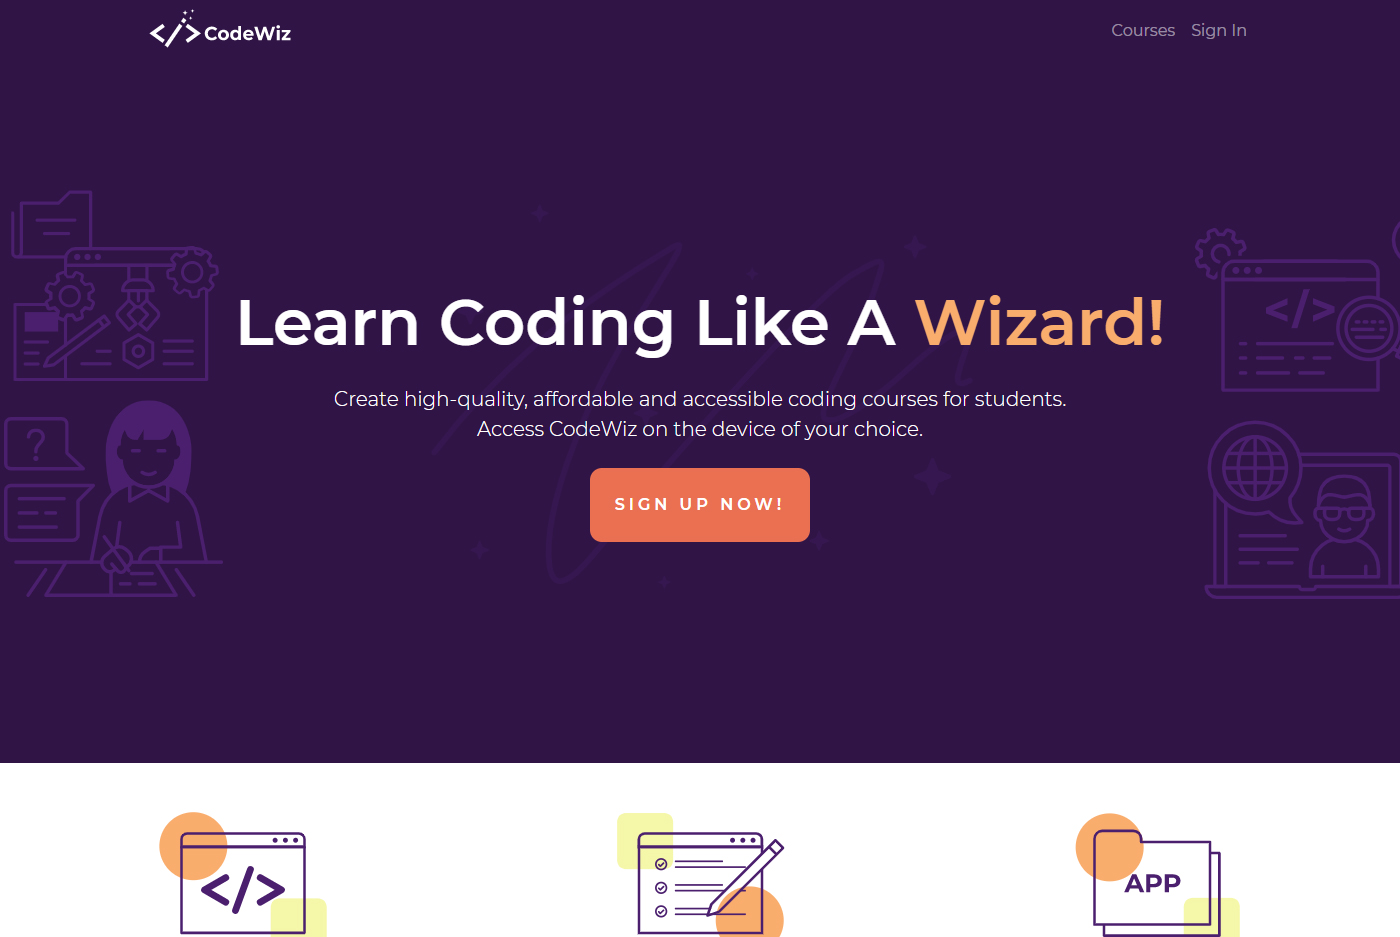
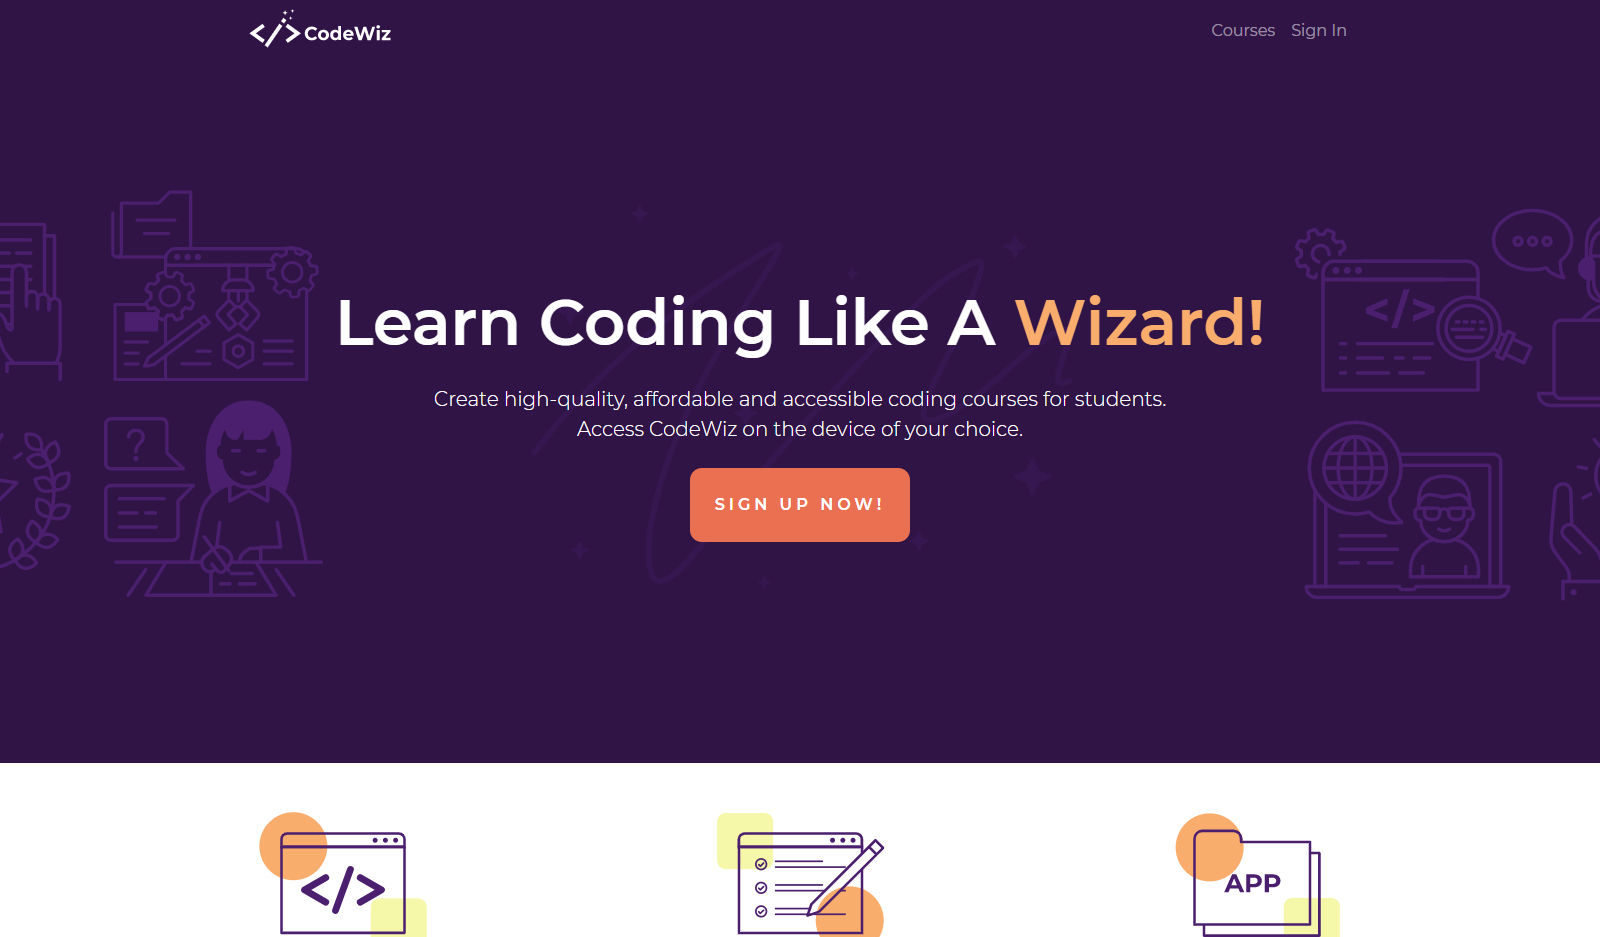
done with sofware section

diff --git a/styles/globals.css b/styles/globals.css
@@ -385,8 +385,13 @@ Banner
     flex-direction: row;
     align-items: center;
     justify-content: space-between;
-    max-width: 600px;
+    max-width: 470px;
     margin: auto;
+  }
+}
+@media screen and (min-width: 1000px) {
+  .btn-container {
+    max-width: 600px;
   }
 }
 /*
@@ -482,25 +487,51 @@ Projects
     min-width: 350px;
   }
 }
-
-/* .btn {
-  font-size: 1.25rem;
-  margin-bottom: none;
-  box-shadow: inset -4px -4px 0px 0px var(--clr-grey-1);
+/*
+===========================  
+Softwares & Technologies
+=========================== 
+*/
+.softwares {
+  padding: 7rem 1rem 7rem;
+  font-family: var(--font-main-1);
 }
-.btn:hover {
-  box-shadow: inset -6px -6px 0px 0px var(--clr-main-3);
+.softwares .heading {
+  color: var(--clr-main-1);
+  margin-bottom: 5rem;
 }
-.btn:active {
-  box-shadow: inset 4px 4px 0px 0px var(--clr-main-3);
+.software-list {
+  display: flex;
+  justify-content: center;
+  flex-wrap: wrap;
 }
-.btn:before {
-  top: -5px;
-  border-top: 5px black solid;
-  border-bottom: 5px black solid;
+.software {
+  display: inline-block;
+  position: relative;
+  flex-basis: auto;
+  padding: 1rem 2rem;
+  color: var(--clr-main-1);
+  margin: 1rem;
+  background: var(--clr-grey-2);
+  box-shadow: inset -3px -3px 0px 0px var(--clr-grey-1);
 }
-.btn:after {
-  left: -5px;
-  border-left: 5px black solid;
-  border-right: 5px black solid;
-} */
+.software:before,
+.software:after {
+  content: '';
+  position: absolute;
+  width: 100%;
+  height: 100%;
+  box-sizing: content-box;
+}
+.software:before {
+  top: -4px;
+  left: 0;
+  border-top: 4px var(--clr-main-1) solid;
+  border-bottom: 4px var(--clr-main-1) solid;
+}
+.software:after {
+  left: -4px;
+  top: 0;
+  border-left: 4px var(--clr-main-1) solid;
+  border-right: 4px var(--clr-main-1) solid;
+}

diff --git a/components/softwares.js b/components/softwares.js
@@ -1,0 +1,24 @@
+const Sofwares = () => {
+  return (
+    <section className="softwares">
+      <div className="container">
+        <h2 className="heading">Softwares & Technologies</h2>
+        <ul className="software-list">
+          <li className="software">HTML5/CSS3</li>
+          <li className="software">JavaScript</li>
+          <li className="software">React.JS</li>
+          <li className="software">Next.JS</li>
+          <li className="software">Node.JS</li>
+          <li className="software">Express</li>
+          <li className="software">MongoDB</li>
+          <li className="software">Git</li>
+          <li className="software">Adobe Photoshop</li>
+          <li className="software">Adobe Illustrator</li>
+          <li className="software">Adobe AfterEffects</li>
+        </ul>
+      </div>
+    </section>
+  );
+};
+
+export default Sofwares;

diff --git a/pages/index.js b/pages/index.js
@@ -3,6 +3,7 @@ import Banner from '../components/banner';
 import HeadComp from '../components/head';
 import Navbar from '../components/navbar';
 import Projects from '../components/projects';
+import Sofwares from '../components/softwares';
 import styles from '../styles/Home.module.css';
 
 export default function Home() {
@@ -13,6 +14,7 @@ export default function Home() {
       <Banner />
       <About />
       <Projects />
+      <Sofwares />
     </div>
   );
 }
